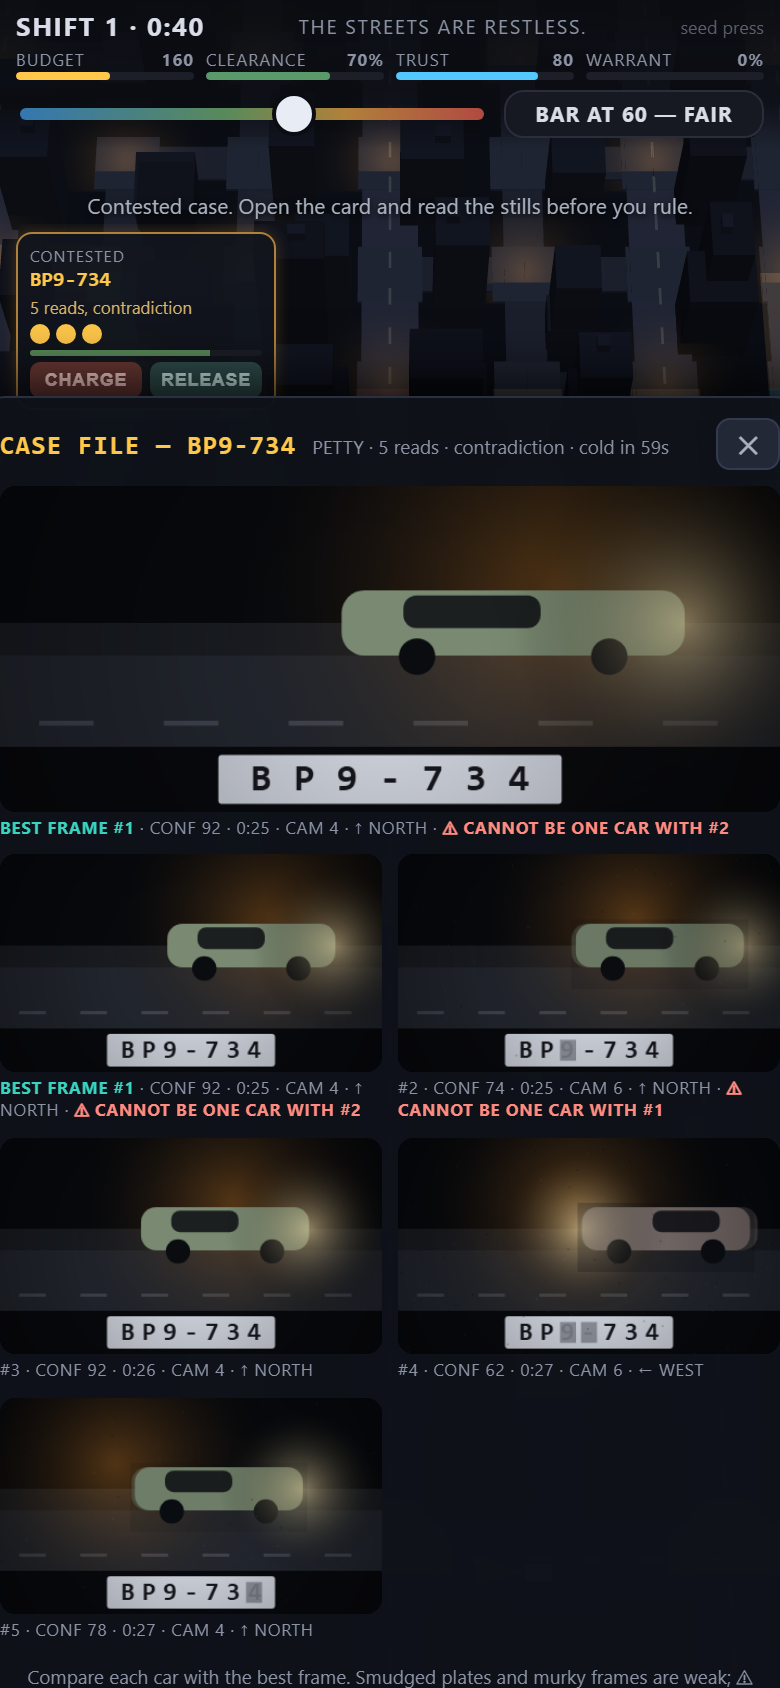
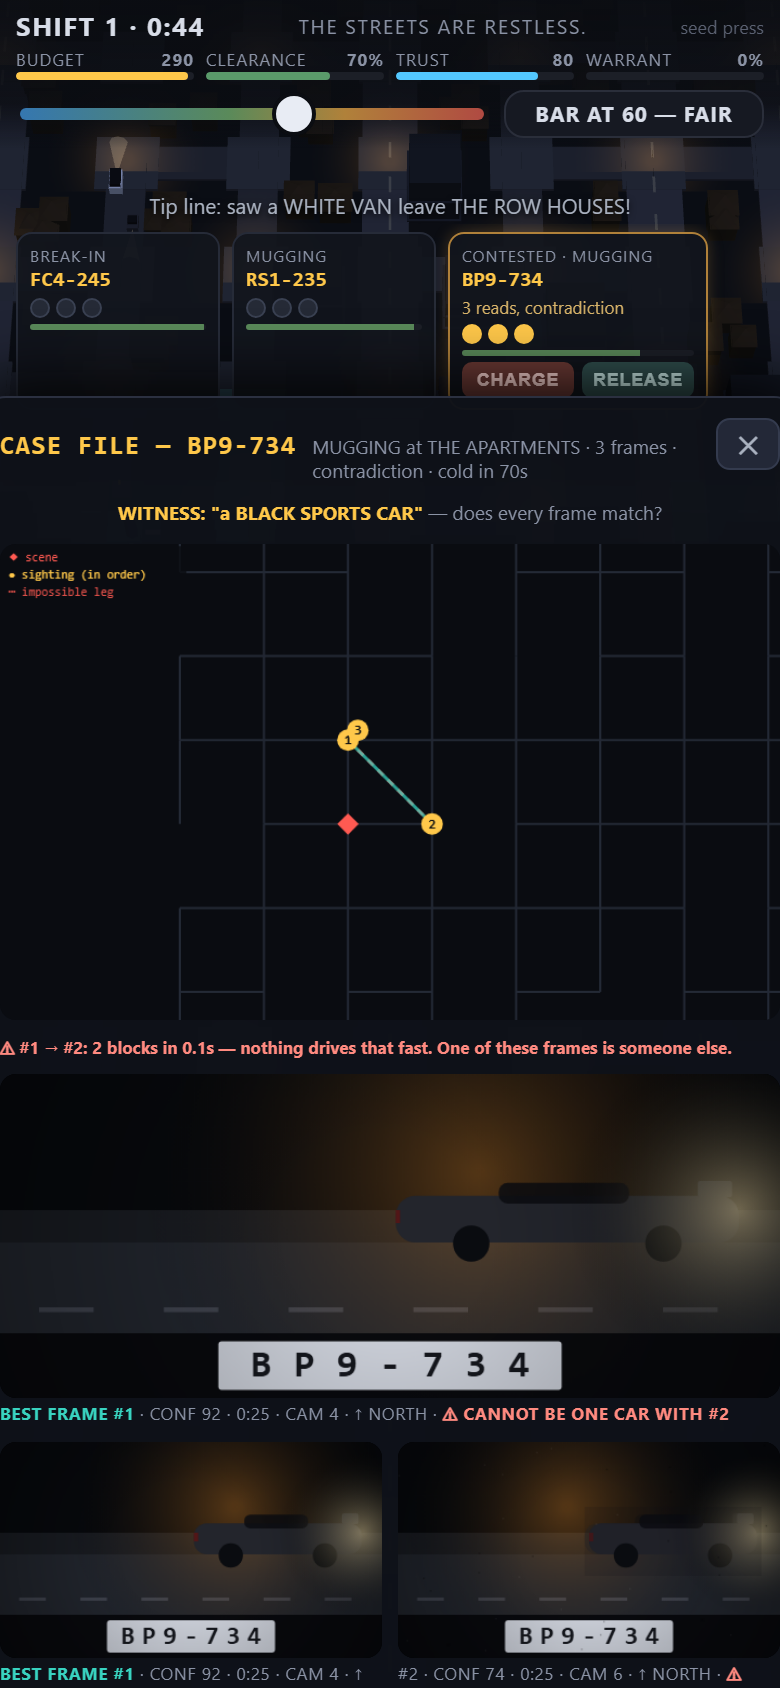
feat: case file shows the WHOLE file - all frames incl. aged-off/lost/unsent with status chips, zoomed sightings-over-time map (scene, numbered frames, legs), and named impossible-leg diagnostics

diff --git a/index.html b/index.html
@@ -22,7 +22,7 @@
 <script>
 'use strict';
 /* BLIND SPOT — a camera-network tower defense prototype. */
-window.BUILDSTAMP = 'BUILD 2026-08-18 03:24 UTC';
+window.BUILDSTAMP = 'BUILD 2026-08-18 03:30 UTC';
 
 // ============================================================
 // CONFIG
@@ -3927,6 +3927,11 @@ var UI = (() => {
 .evmeta .ref { color:#39d3c0; font-weight:700; }
 .evgrid { display:grid; grid-template-columns:1fr 1fr; gap:8px; margin-bottom:10px; }
 .evcell { border-radius:8px; }
+.evcell.inactive { opacity:0.55; }
+.evmap { margin-bottom:8px; }
+.evmap canvas { display:block; width:100%; border-radius:8px; background:#0a0c11; }
+.evlegs { font-size:8.5px; color:#8b93a5; margin:3px 0 6px; line-height:1.5; }
+.evlegs .bad { color:#ff8a80; font-weight:700; }
 .evhint { font-size:9.5px; color:#8b93a5; text-align:center; margin:2px 0 8px; line-height:1.5; }
 .evverdict { display:flex; gap:8px; }
 .evverdict button { flex:1; padding:11px 0; border:none; border-radius:9px; font-size:13px;
@@ -4361,10 +4366,110 @@ var UI = (() => {
 
   const HEADINGS = ['→ EAST', '↓ SOUTH', '← WEST', '↑ NORTH'];
 
+  // Every read the file ever held — the sheet shows the WHOLE story,
+  // including footage that aged off, died with its pole, or is still
+  // sitting unsent on a drive.
+  function allEvidence(kase) {
+    return state.reads.filter(r => r.caseId === kase.id).sort((a, b) => a.t - b.t);
+  }
+  function readStatus(r) {
+    if (r.lost) return ['LOST WITH POLE', '#ff8a80'];
+    if (r.uploadedAt === null) return ['ON THE POLE — UNSENT', '#ffb44a'];
+    if (state.time >= r.expiresAt) return ['AGED OFF', '#8b93a5'];
+    return null;   // active
+  }
+
+  // The sightings map: where each frame was taken, in time order, with
+  // the legs between them — and a named problem when a leg is impossible
+  // ("9 blocks in 3s: nothing drives that fast").
+  function drawCaseMap(cv, kase, ev) {
+    const g = cv.getContext('2d');
+    const map = state.map, W = cv.width, H = cv.height, m = 26;
+    g.fillStyle = '#0a0c11'; g.fillRect(0, 0, W, H);
+    // zoom to the case's own neighbourhood: scene + every sighting, padded
+    const involved = [kase.spawnNode, ...ev.map(r => r.camNode)];
+    let x0 = Infinity, x1 = -Infinity, y0 = Infinity, y1 = -Infinity;
+    for (const n of involved) {
+      const nd = map.nodes[n];
+      x0 = Math.min(x0, nd.x); x1 = Math.max(x1, nd.x);
+      y0 = Math.min(y0, nd.y); y1 = Math.max(y1, nd.y);
+    }
+    x0 = Math.max(0, x0 - 2); x1 = Math.min(map.W - 1, x1 + 2);
+    y0 = Math.max(0, y0 - 2); y1 = Math.min(map.H - 1, y1 + 2);
+    const scale = Math.min((W - 2 * m) / Math.max(2, x1 - x0), (H - 2 * m) / Math.max(2, y1 - y0), 90);
+    const ox = (W - (x1 - x0) * scale) / 2 - x0 * scale, oy = (H - (y1 - y0) * scale) / 2 - y0 * scale;
+    const px = (n) => ox + map.nodes[n].x * scale, py = (n) => oy + map.nodes[n].y * scale;
+    g.save();
+    g.beginPath(); g.rect(0, 0, W, H); g.clip();
+    // streets
+    g.strokeStyle = '#242a36'; g.lineWidth = 2;
+    for (const s of map.segs) {
+      g.beginPath(); g.moveTo(px(s.a), py(s.a)); g.lineTo(px(s.b), py(s.b)); g.stroke();
+    }
+    // the scene
+    g.save();
+    g.translate(px(kase.spawnNode), py(kase.spawnNode));
+    g.rotate(Math.PI / 4);
+    g.fillStyle = '#ff5a52';
+    g.fillRect(-7, -7, 14, 14);
+    g.restore();
+    // legs between consecutive sightings — impossible legs paint LAST so
+    // a clean return leg on the same street can never hide them
+    for (const pass of [true, false]) {
+      for (let i = 1; i < ev.length; i++) {
+        const a = ev[i - 1], b = ev[i];
+        const ok = CaseSystem.pairCoherent(state, a, b);
+        if (ok !== pass) continue;
+        g.strokeStyle = ok ? 'rgba(57,211,192,0.75)' : 'rgba(255,90,82,0.95)';
+        g.lineWidth = ok ? 3 : 4;
+        g.setLineDash(ok ? [] : [7, 6]);
+        g.beginPath(); g.moveTo(px(a.camNode), py(a.camNode)); g.lineTo(px(b.camNode), py(b.camNode)); g.stroke();
+        g.setLineDash([]);
+      }
+    }
+    // numbered sightings (jitter repeats at the same pole so both show)
+    g.font = 'bold 13px monospace'; g.textAlign = 'center'; g.textBaseline = 'middle';
+    const seenAt = {};
+    ev.forEach((r, i) => {
+      const k = r.camNode;
+      const jit = (seenAt[k] || 0) * 9;
+      seenAt[k] = (seenAt[k] || 0) + 1;
+      const x = px(k) + jit, y = py(k) - jit;
+      const st = readStatus(r);
+      g.fillStyle = st ? '#5a6070' : '#ffc84a';
+      g.beginPath(); g.arc(x, y, 10, 0, 7); g.fill();
+      g.fillStyle = '#0b0d12';
+      g.fillText(String(i + 1), x, y + 1);
+    });
+    g.restore();
+    // legend
+    g.fillStyle = 'rgba(10,12,17,0.8)'; g.fillRect(2, 2, 170, 52);
+    g.font = '11px monospace'; g.textAlign = 'left'; g.textBaseline = 'alphabetic';
+    g.fillStyle = '#ff5a52'; g.fillText('◆ scene', 8, 16);
+    g.fillStyle = '#ffc84a'; g.fillText('● sighting (in order)', 8, 32);
+    g.fillStyle = 'rgba(255,90,82,0.9)'; g.fillText('┅ impossible leg', 8, 48);
+  }
+
+  function legDiagnostics(ev) {
+    const out = [];
+    let clean = 0;
+    for (let i = 1; i < ev.length; i++) {
+      const a = ev[i - 1], b = ev[i];
+      if (CaseSystem.pairCoherent(state, a, b)) { clean++; continue; }
+      const dd = CaseSystem.nodeDist(state, a.camNode, b.camNode);
+      const dt = Math.max(0.1, b.t - a.t);
+      out.push(`<span class="bad">⚠ #${i} → #${i + 1}: ${dd} blocks in ${dt < 10 ? dt.toFixed(1) : Math.round(dt)}s — nothing drives that fast. One of these frames is someone else.</span>`);
+    }
+    if (ev.length >= 2 && out.length === 0) out.push(`${clean} leg${clean === 1 ? '' : 's'}, all drivable — the route holds together.`);
+    return out.join('<br>');
+  }
+
   function stillMeta(read, idx, refId, conflicts, idxOf) {
     const bits = [];
     if (read.id === refId) bits.push('<span class="ref">BEST FRAME #' + idx + '</span>');
     else bits.push('#' + idx);
+    const st = readStatus(read);
+    if (st) bits.push(`<span style="color:${st[1]};font-weight:700">${st[0]}</span>`);
     bits.push('CONF ' + read.conf);
     bits.push(fmtTime(read.t));
     bits.push('CAM ' + read.camId + (read.camTags > 0 ? ' · <span class="warn">LENS FOULED</span>' : ''));
@@ -4382,9 +4487,11 @@ var UI = (() => {
     const kase = CaseSystem.byId(state, caseId);
     if (!kase || kase.status !== 'CONTESTED') return;
     evsheetCaseId = caseId;
-    const ev = CaseSystem.usableEvidence(state, kase).sort((a, b) => a.t - b.t);
+    const ev = allEvidence(kase);           // the WHOLE file, aged and lost included
+    const active = ev.filter(r => !readStatus(r));
     const pairs = CaseSystem.contradictionPairs(state, ev);
-    const refId = ev.length ? ev.reduce((m, r) => r.conf > m.conf ? r : m, ev[0]).id : -1;
+    const refPool = active.length ? active : ev;
+    const refId = refPool.length ? refPool.reduce((m, r) => r.conf > m.conf ? r : m, refPool[0]).id : -1;
     const idxOf = {};
     ev.forEach((r, i) => { idxOf[r.id] = i + 1; });
 
@@ -4392,9 +4499,24 @@ var UI = (() => {
     sheet.setAttribute('data-key', 'evsheet');
     const c = kase.contested || {};
     sheet.innerHTML = `<div class="evhead"><b>CASE FILE — ${kase.plate}</b>
-      <span>${kase.kind || kase.type} at ${kase.landmark || 'the scene'} · ${ev.length} read${ev.length === 1 ? '' : 's'} · ${c.contradiction ? 'contradiction' : 'near the bar'} · cold in ${Math.max(0, Math.ceil(kase.coldAt - state.time))}s</span>
+      <span>${kase.kind || kase.type} at ${kase.landmark || 'the scene'} · ${ev.length} frame${ev.length === 1 ? '' : 's'}${active.length !== ev.length ? ' (' + active.length + ' usable)' : ''} · ${c.contradiction ? 'contradiction' : 'near the bar'} · cold in ${Math.max(0, Math.ceil(kase.coldAt - state.time))}s</span>
       <button data-key="ev-close">✕</button></div>
       ${kase.witnessDesc ? `<div class="evhint" style="margin:0 0 8px"><span style="color:#ffc84a;font-weight:700">WITNESS: "a ${kase.witnessDesc}"</span> — does every frame match?</div>` : ''}`;
+
+    // the sightings map: scene, numbered frames in time order, and the
+    // legs between them — impossible legs drawn dashed red and named
+    if (ev.length) {
+      const mapWrap = h('div', 'evmap');
+      const mcv = document.createElement('canvas');
+      mcv.width = 720; mcv.height = 440;
+      drawCaseMap(mcv, kase, ev);
+      mapWrap.appendChild(mcv);
+      mapWrap.setAttribute('data-key', 'evmap');
+      sheet.appendChild(mapWrap);
+      const legs = h('div', 'evlegs');
+      legs.innerHTML = legDiagnostics(ev);
+      sheet.appendChild(legs);
+    }
 
     // reference frame, big
     const ref = ev.find(r => r.id === refId);
@@ -4414,7 +4536,7 @@ var UI = (() => {
     // every frame in time order
     const grid = h('div', 'evgrid');
     ev.forEach((r, i) => {
-      const cell = h('div', 'evcell');
+      const cell = h('div', 'evcell' + (readStatus(r) ? ' inactive' : ''));
       cell.setAttribute('data-key', 'ev-still-' + (i + 1));
       const cv = document.createElement('canvas');
       cv.width = 352; cv.height = 200;

diff --git a/src/18_ui.js b/src/18_ui.js
@@ -123,6 +123,11 @@ var UI = (() => {
 .evmeta .ref { color:#39d3c0; font-weight:700; }
 .evgrid { display:grid; grid-template-columns:1fr 1fr; gap:8px; margin-bottom:10px; }
 .evcell { border-radius:8px; }
+.evcell.inactive { opacity:0.55; }
+.evmap { margin-bottom:8px; }
+.evmap canvas { display:block; width:100%; border-radius:8px; background:#0a0c11; }
+.evlegs { font-size:8.5px; color:#8b93a5; margin:3px 0 6px; line-height:1.5; }
+.evlegs .bad { color:#ff8a80; font-weight:700; }
 .evhint { font-size:9.5px; color:#8b93a5; text-align:center; margin:2px 0 8px; line-height:1.5; }
 .evverdict { display:flex; gap:8px; }
 .evverdict button { flex:1; padding:11px 0; border:none; border-radius:9px; font-size:13px;
@@ -557,10 +562,110 @@ var UI = (() => {
 
   const HEADINGS = ['→ EAST', '↓ SOUTH', '← WEST', '↑ NORTH'];
 
+  // Every read the file ever held — the sheet shows the WHOLE story,
+  // including footage that aged off, died with its pole, or is still
+  // sitting unsent on a drive.
+  function allEvidence(kase) {
+    return state.reads.filter(r => r.caseId === kase.id).sort((a, b) => a.t - b.t);
+  }
+  function readStatus(r) {
+    if (r.lost) return ['LOST WITH POLE', '#ff8a80'];
+    if (r.uploadedAt === null) return ['ON THE POLE — UNSENT', '#ffb44a'];
+    if (state.time >= r.expiresAt) return ['AGED OFF', '#8b93a5'];
+    return null;   // active
+  }
+
+  // The sightings map: where each frame was taken, in time order, with
+  // the legs between them — and a named problem when a leg is impossible
+  // ("9 blocks in 3s: nothing drives that fast").
+  function drawCaseMap(cv, kase, ev) {
+    const g = cv.getContext('2d');
+    const map = state.map, W = cv.width, H = cv.height, m = 26;
+    g.fillStyle = '#0a0c11'; g.fillRect(0, 0, W, H);
+    // zoom to the case's own neighbourhood: scene + every sighting, padded
+    const involved = [kase.spawnNode, ...ev.map(r => r.camNode)];
+    let x0 = Infinity, x1 = -Infinity, y0 = Infinity, y1 = -Infinity;
+    for (const n of involved) {
+      const nd = map.nodes[n];
+      x0 = Math.min(x0, nd.x); x1 = Math.max(x1, nd.x);
+      y0 = Math.min(y0, nd.y); y1 = Math.max(y1, nd.y);
+    }
+    x0 = Math.max(0, x0 - 2); x1 = Math.min(map.W - 1, x1 + 2);
+    y0 = Math.max(0, y0 - 2); y1 = Math.min(map.H - 1, y1 + 2);
+    const scale = Math.min((W - 2 * m) / Math.max(2, x1 - x0), (H - 2 * m) / Math.max(2, y1 - y0), 90);
+    const ox = (W - (x1 - x0) * scale) / 2 - x0 * scale, oy = (H - (y1 - y0) * scale) / 2 - y0 * scale;
+    const px = (n) => ox + map.nodes[n].x * scale, py = (n) => oy + map.nodes[n].y * scale;
+    g.save();
+    g.beginPath(); g.rect(0, 0, W, H); g.clip();
+    // streets
+    g.strokeStyle = '#242a36'; g.lineWidth = 2;
+    for (const s of map.segs) {
+      g.beginPath(); g.moveTo(px(s.a), py(s.a)); g.lineTo(px(s.b), py(s.b)); g.stroke();
+    }
+    // the scene
+    g.save();
+    g.translate(px(kase.spawnNode), py(kase.spawnNode));
+    g.rotate(Math.PI / 4);
+    g.fillStyle = '#ff5a52';
+    g.fillRect(-7, -7, 14, 14);
+    g.restore();
+    // legs between consecutive sightings — impossible legs paint LAST so
+    // a clean return leg on the same street can never hide them
+    for (const pass of [true, false]) {
+      for (let i = 1; i < ev.length; i++) {
+        const a = ev[i - 1], b = ev[i];
+        const ok = CaseSystem.pairCoherent(state, a, b);
+        if (ok !== pass) continue;
+        g.strokeStyle = ok ? 'rgba(57,211,192,0.75)' : 'rgba(255,90,82,0.95)';
+        g.lineWidth = ok ? 3 : 4;
+        g.setLineDash(ok ? [] : [7, 6]);
+        g.beginPath(); g.moveTo(px(a.camNode), py(a.camNode)); g.lineTo(px(b.camNode), py(b.camNode)); g.stroke();
+        g.setLineDash([]);
+      }
+    }
+    // numbered sightings (jitter repeats at the same pole so both show)
+    g.font = 'bold 13px monospace'; g.textAlign = 'center'; g.textBaseline = 'middle';
+    const seenAt = {};
+    ev.forEach((r, i) => {
+      const k = r.camNode;
+      const jit = (seenAt[k] || 0) * 9;
+      seenAt[k] = (seenAt[k] || 0) + 1;
+      const x = px(k) + jit, y = py(k) - jit;
+      const st = readStatus(r);
+      g.fillStyle = st ? '#5a6070' : '#ffc84a';
+      g.beginPath(); g.arc(x, y, 10, 0, 7); g.fill();
+      g.fillStyle = '#0b0d12';
+      g.fillText(String(i + 1), x, y + 1);
+    });
+    g.restore();
+    // legend
+    g.fillStyle = 'rgba(10,12,17,0.8)'; g.fillRect(2, 2, 170, 52);
+    g.font = '11px monospace'; g.textAlign = 'left'; g.textBaseline = 'alphabetic';
+    g.fillStyle = '#ff5a52'; g.fillText('◆ scene', 8, 16);
+    g.fillStyle = '#ffc84a'; g.fillText('● sighting (in order)', 8, 32);
+    g.fillStyle = 'rgba(255,90,82,0.9)'; g.fillText('┅ impossible leg', 8, 48);
+  }
+
+  function legDiagnostics(ev) {
+    const out = [];
+    let clean = 0;
+    for (let i = 1; i < ev.length; i++) {
+      const a = ev[i - 1], b = ev[i];
+      if (CaseSystem.pairCoherent(state, a, b)) { clean++; continue; }
+      const dd = CaseSystem.nodeDist(state, a.camNode, b.camNode);
+      const dt = Math.max(0.1, b.t - a.t);
+      out.push(`<span class="bad">⚠ #${i} → #${i + 1}: ${dd} blocks in ${dt < 10 ? dt.toFixed(1) : Math.round(dt)}s — nothing drives that fast. One of these frames is someone else.</span>`);
+    }
+    if (ev.length >= 2 && out.length === 0) out.push(`${clean} leg${clean === 1 ? '' : 's'}, all drivable — the route holds together.`);
+    return out.join('<br>');
+  }
+
   function stillMeta(read, idx, refId, conflicts, idxOf) {
     const bits = [];
     if (read.id === refId) bits.push('<span class="ref">BEST FRAME #' + idx + '</span>');
     else bits.push('#' + idx);
+    const st = readStatus(read);
+    if (st) bits.push(`<span style="color:${st[1]};font-weight:700">${st[0]}</span>`);
     bits.push('CONF ' + read.conf);
     bits.push(fmtTime(read.t));
     bits.push('CAM ' + read.camId + (read.camTags > 0 ? ' · <span class="warn">LENS FOULED</span>' : ''));
@@ -578,9 +683,11 @@ var UI = (() => {
     const kase = CaseSystem.byId(state, caseId);
     if (!kase || kase.status !== 'CONTESTED') return;
     evsheetCaseId = caseId;
-    const ev = CaseSystem.usableEvidence(state, kase).sort((a, b) => a.t - b.t);
+    const ev = allEvidence(kase);           // the WHOLE file, aged and lost included
+    const active = ev.filter(r => !readStatus(r));
     const pairs = CaseSystem.contradictionPairs(state, ev);
-    const refId = ev.length ? ev.reduce((m, r) => r.conf > m.conf ? r : m, ev[0]).id : -1;
+    const refPool = active.length ? active : ev;
+    const refId = refPool.length ? refPool.reduce((m, r) => r.conf > m.conf ? r : m, refPool[0]).id : -1;
     const idxOf = {};
     ev.forEach((r, i) => { idxOf[r.id] = i + 1; });
 
@@ -588,9 +695,24 @@ var UI = (() => {
     sheet.setAttribute('data-key', 'evsheet');
     const c = kase.contested || {};
     sheet.innerHTML = `<div class="evhead"><b>CASE FILE — ${kase.plate}</b>
-      <span>${kase.kind || kase.type} at ${kase.landmark || 'the scene'} · ${ev.length} read${ev.length === 1 ? '' : 's'} · ${c.contradiction ? 'contradiction' : 'near the bar'} · cold in ${Math.max(0, Math.ceil(kase.coldAt - state.time))}s</span>
+      <span>${kase.kind || kase.type} at ${kase.landmark || 'the scene'} · ${ev.length} frame${ev.length === 1 ? '' : 's'}${active.length !== ev.length ? ' (' + active.length + ' usable)' : ''} · ${c.contradiction ? 'contradiction' : 'near the bar'} · cold in ${Math.max(0, Math.ceil(kase.coldAt - state.time))}s</span>
       <button data-key="ev-close">✕</button></div>
       ${kase.witnessDesc ? `<div class="evhint" style="margin:0 0 8px"><span style="color:#ffc84a;font-weight:700">WITNESS: "a ${kase.witnessDesc}"</span> — does every frame match?</div>` : ''}`;
+
+    // the sightings map: scene, numbered frames in time order, and the
+    // legs between them — impossible legs drawn dashed red and named
+    if (ev.length) {
+      const mapWrap = h('div', 'evmap');
+      const mcv = document.createElement('canvas');
+      mcv.width = 720; mcv.height = 440;
+      drawCaseMap(mcv, kase, ev);
+      mapWrap.appendChild(mcv);
+      mapWrap.setAttribute('data-key', 'evmap');
+      sheet.appendChild(mapWrap);
+      const legs = h('div', 'evlegs');
+      legs.innerHTML = legDiagnostics(ev);
+      sheet.appendChild(legs);
+    }
 
     // reference frame, big
     const ref = ev.find(r => r.id === refId);
@@ -610,7 +732,7 @@ var UI = (() => {
     // every frame in time order
     const grid = h('div', 'evgrid');
     ev.forEach((r, i) => {
-      const cell = h('div', 'evcell');
+      const cell = h('div', 'evcell' + (readStatus(r) ? ' inactive' : ''));
       cell.setAttribute('data-key', 'ev-still-' + (i + 1));
       const cv = document.createElement('canvas');
       cv.width = 352; cv.height = 200;
